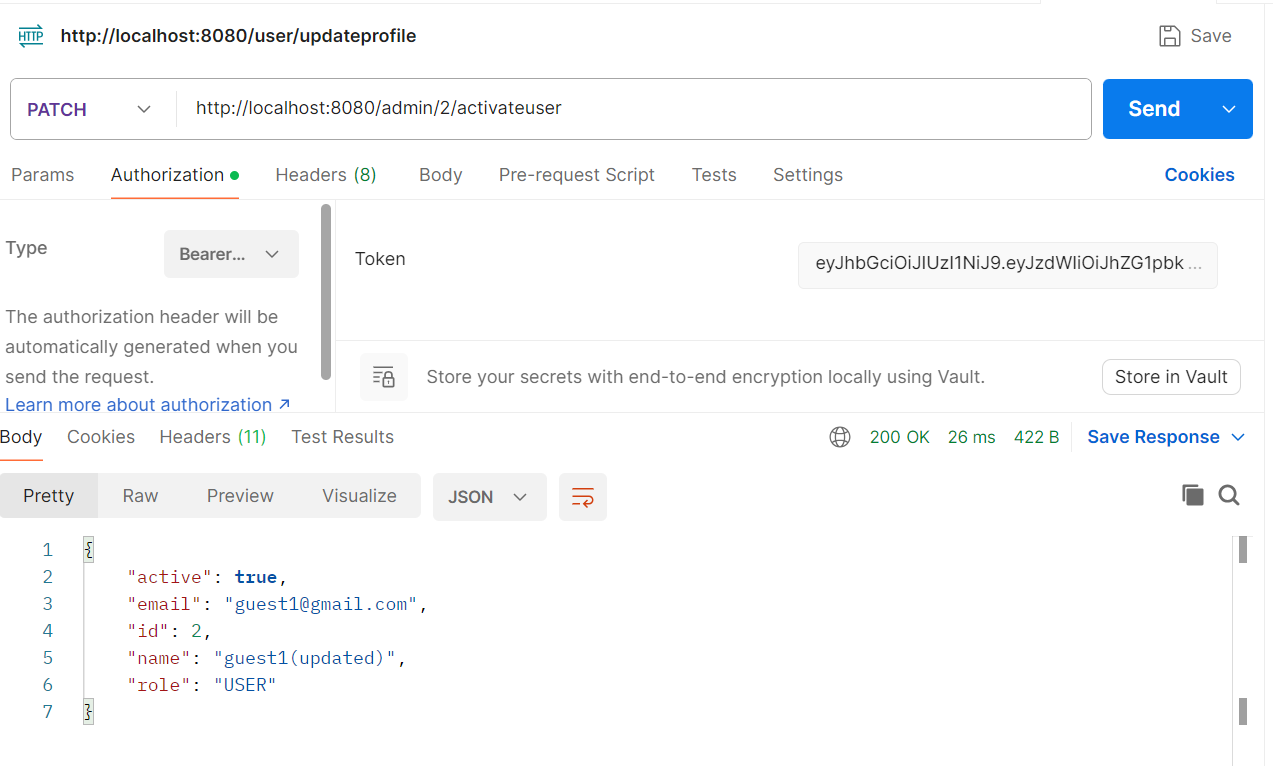
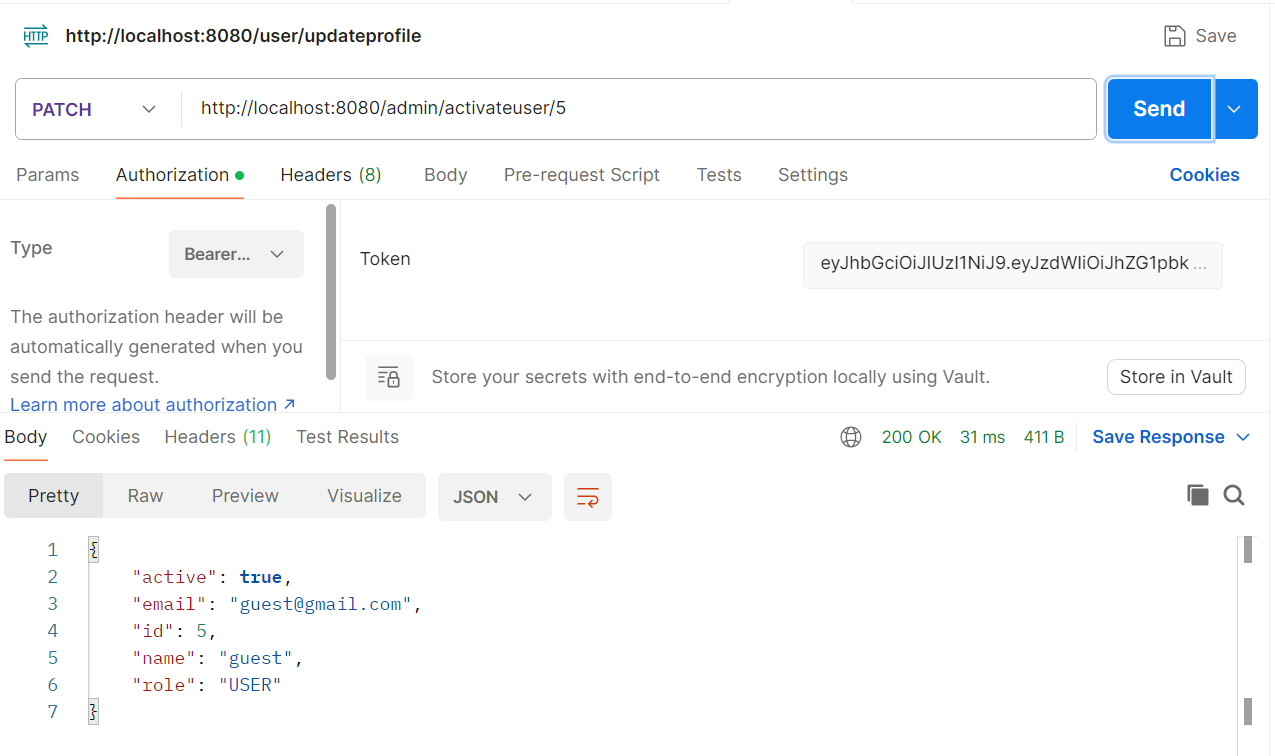
updated changes regarding endpoint url address and added custom exception UserNotFoundException

diff --git a/src/main/java/com/ecommerce/UserService/controllers/AdminController.java b/src/main/java/com/ecommerce/UserService/controllers/AdminController.java
@@ -15,12 +15,12 @@ public class AdminController {
 
     private final AdminService adminService;
 
-    @PatchMapping("/{id}/activateuser")
+    @PatchMapping("/activateuser/{id}")
     public ResponseEntity<UserResponseDTO> activateUser(@PathVariable Long id){
         return ResponseEntity.ok(adminService.activateUser(id));
     }
 
-    @PatchMapping("/{id}/deactivateuser")
+    @PatchMapping("/deactivateuser/{id}")
     public ResponseEntity<UserResponseDTO> deactivateUser(@PathVariable Long id){
         return ResponseEntity.ok(adminService.deactivateUser(id));
     }
@@ -30,13 +30,13 @@ public class AdminController {
         return ResponseEntity.ok(adminService.getAllUsers());
     }
 
-    @GetMapping("/{id}/getuser")
+    @GetMapping("/getuser/{id}")
     public ResponseEntity<UserResponseDTO> getUser(@PathVariable Long id) {
         return ResponseEntity.ok(adminService.getUserById(id));
     }
 
 
-    @DeleteMapping("/{id}/deleteuser")
+    @DeleteMapping("/deleteuser/{id}")
     public ResponseEntity<String> deleteUser(@PathVariable Long id) {
         adminService.deleteUser(id);
         return ResponseEntity.ok("User deleted successfully");

diff --git a/src/main/java/com/ecommerce/UserService/services/user/UserServiceImpl.java b/src/main/java/com/ecommerce/UserService/services/user/UserServiceImpl.java
@@ -3,6 +3,7 @@ package com.ecommerce.UserService.services.user;
 import com.ecommerce.UserService.dto.request.UpdateRequestDTO;
 import com.ecommerce.UserService.dto.response.UserResponseDTO;
 import com.ecommerce.UserService.entities.User;
+import com.ecommerce.UserService.exception.UserNotFoundException;
 import com.ecommerce.UserService.repositories.UserRepository;
 import com.ecommerce.UserService.security.UserPrincipal;
 import lombok.RequiredArgsConstructor;
@@ -20,7 +21,7 @@ public class UserServiceImpl implements UserService{
     private User getCurrentUser(){
         Authentication authentication = SecurityContextHolder.getContext().getAuthentication();
         UserPrincipal userPrincipal=(UserPrincipal) authentication.getPrincipal();
-        return userRepo.findById(userPrincipal.getUser().getId()).orElseThrow(()->new RuntimeException("User not found"));
+        return userRepo.findById(userPrincipal.getUser().getId()).orElseThrow(()->new UserNotFoundException("User not found"));
     }
 
     @Override

diff --git a/src/main/java/com/ecommerce/UserService/services/admin/AdminServiceImpl.java b/src/main/java/com/ecommerce/UserService/services/admin/AdminServiceImpl.java
@@ -2,6 +2,7 @@ package com.ecommerce.UserService.services.admin;
 
 import com.ecommerce.UserService.dto.response.UserResponseDTO;
 import com.ecommerce.UserService.entities.User;
+import com.ecommerce.UserService.exception.UserNotFoundException;
 import com.ecommerce.UserService.repositories.UserRepository;
 import lombok.RequiredArgsConstructor;
 import org.modelmapper.ModelMapper;
@@ -16,7 +17,7 @@ public class AdminServiceImpl implements AdminService{
     private final ModelMapper modelMapper;
 
     private User getUser(Long id){
-        return userRepo.findById(id).orElseThrow(()->new RuntimeException("User not found"));
+        return userRepo.findById(id).orElseThrow(()->new UserNotFoundException("User not found"));
     }
 
     @Override
@@ -51,7 +52,6 @@ public class AdminServiceImpl implements AdminService{
 
     @Override
     public void deleteUser(Long id) {
-    User user=getUser(id);
-    userRepo.delete(user);
+    userRepo.deleteById(id);
     }
 }

diff --git a/src/main/java/com/ecommerce/UserService/exception/GlobalExceptionHandler.java b/src/main/java/com/ecommerce/UserService/exception/GlobalExceptionHandler.java
@@ -26,6 +26,12 @@ public class GlobalExceptionHandler {
         return ResponseEntity.status(HttpStatus.CONFLICT).body(error);
     }
 
+    @ExceptionHandler(UserNotFoundException.class)
+    public ResponseEntity<ErrorResponseDTO> handleUserNotFound(UserNotFoundException ex){
+        ErrorResponseDTO error=new ErrorResponseDTO("UserNotFoundException",ex.getMessage(),HttpStatus.NOT_FOUND.value());
+        return ResponseEntity.status(HttpStatus.NOT_FOUND).body(error);
+    }
+
     @ExceptionHandler(MethodArgumentNotValidException.class)
     public ResponseEntity<ErrorResponseDTO> handleValidation(MethodArgumentNotValidException ex){
         String message = ex.getBindingResult().getFieldErrors()

diff --git a/src/main/java/com/ecommerce/UserService/exception/UserNotFoundException.java b/src/main/java/com/ecommerce/UserService/exception/UserNotFoundException.java
@@ -1,0 +1,7 @@
+package com.ecommerce.UserService.exception;
+
+public class UserNotFoundException extends RuntimeException{
+    public UserNotFoundException(String message){
+        super(message);
+    }
+}
